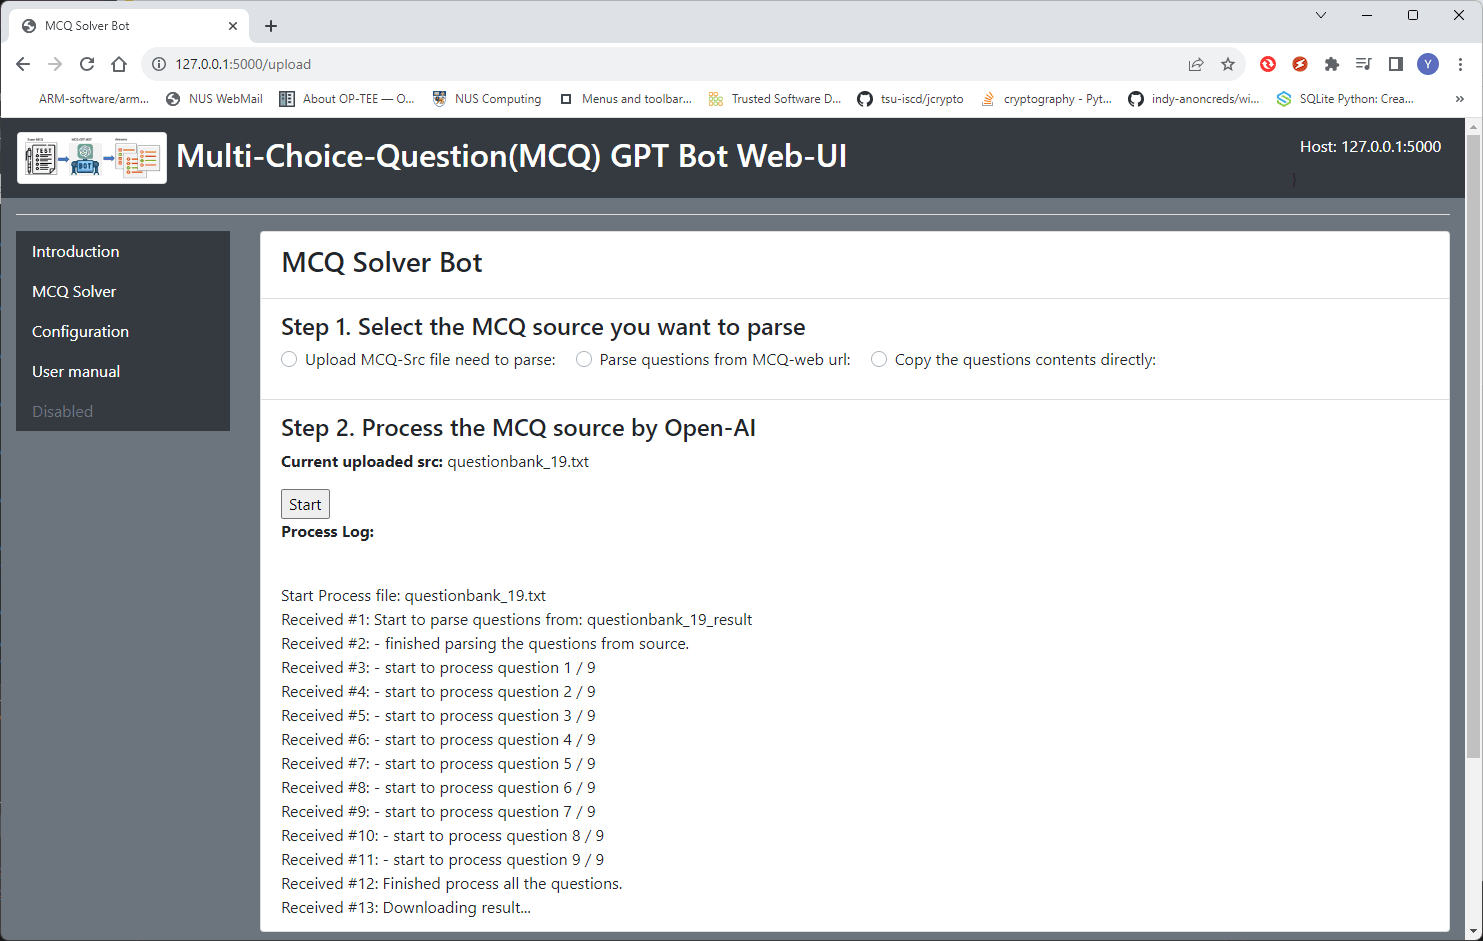
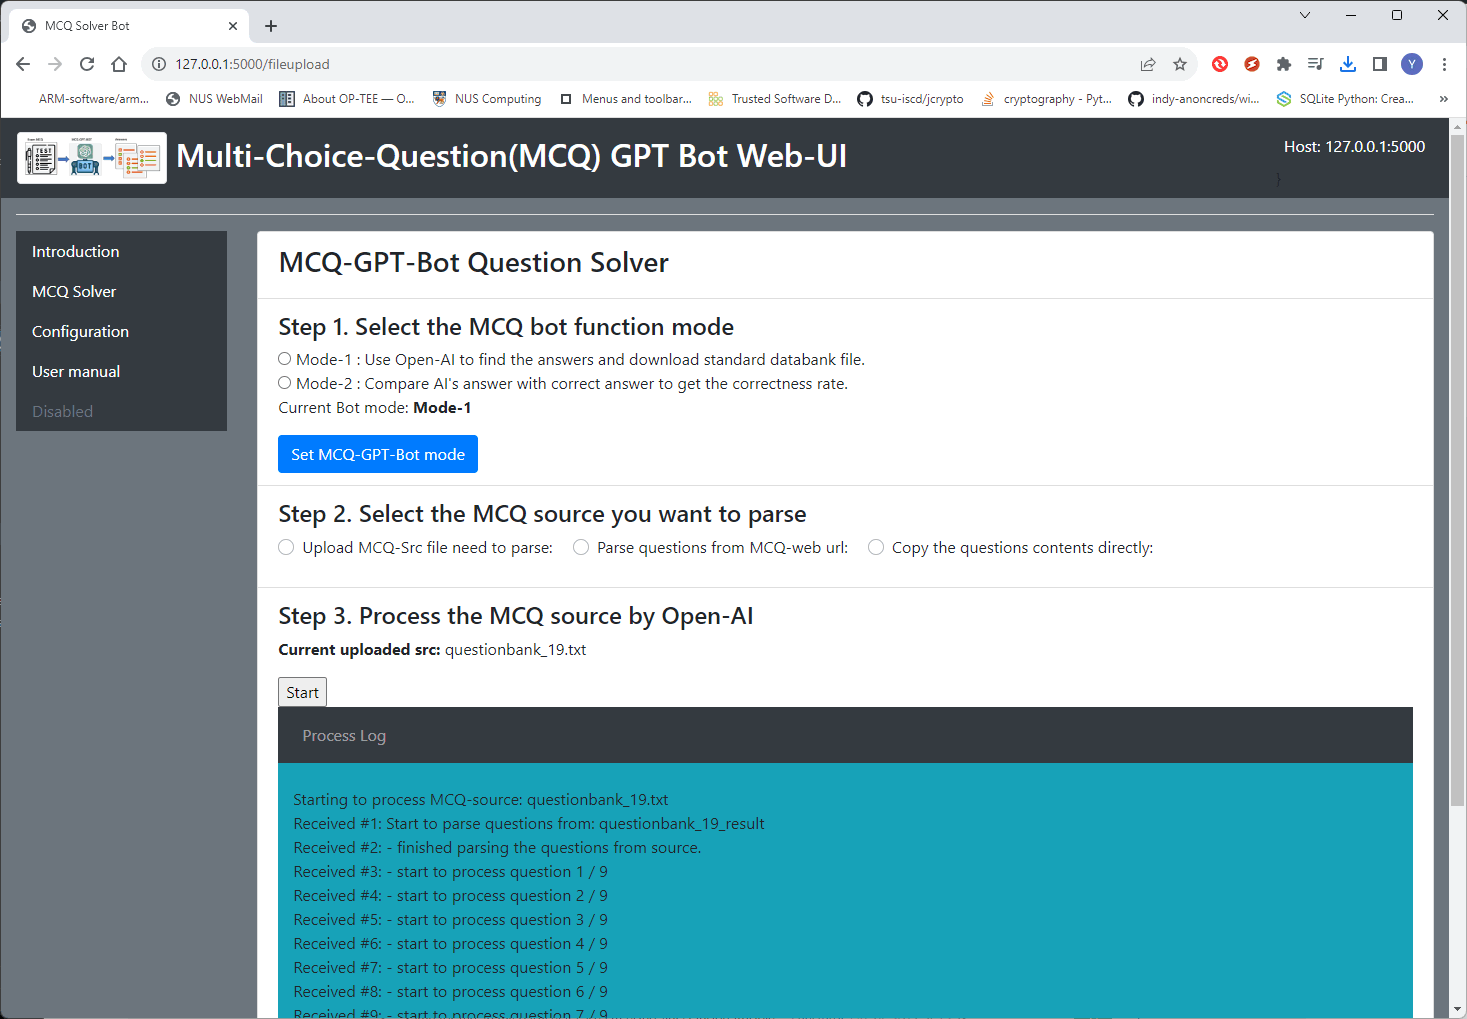
update the introduction page.

diff --git a/src/templates/Introduction.html b/src/templates/Introduction.html
@@ -20,18 +20,23 @@
 <ul class="list-group">
 
   <li class="list-group-item">
-    <h3> User Emulator Introduction</h3>
+    <h3> MCQ-GPT-Bot </h3>
+    <p> We want to create an assistant AI-Bot program which can batch process the multi 
+      choice cyber security exam questions (From different source format : md, url, html, 
+      txt, pdf, json) via OpenAI to get the answers so the researcher can use it to check 
+      the AI's answer correctness rate, AI's performance on solving question on different 
+      fields and do further data analysis. </p>
   </li>
 
   <li class="list-group-item">
     <h4> <span class="badge badge-secondary">Introduction </span> </h4>
-    <p> <b> The Cluster Users Emulator is a multiple users’ action emulation system running in a
-        network/compute cluster system which can satisfy the customers’ requirement about:</b>
+    <p> <b> The MCQ-GPT-Bot will is an automate AI-Bot assistant program which provides below functions: </b>
     </p>
 
-    <p><b> &#149; Network-traffic / node activities / group-users interactive action generation. </b></p>
-    <p><b> &#149; Robotic process / tasks automation. </b></p>
-    <p><b> &#149; System tasks’ process monitoring and control. </b></p>
+    <p><b> &#149; Parse multi-choice-questions from different format data source to build the standard question bank files for the further process such as training (data normalization) . </b></p>
+    <p><b> &#149; If the question sources don't content the answer, use OpenAI to get the answer (with or without the scenario prompt) .  </b></p>
+    <p><b> &#149; If the question sources also provide the answer, compare with AI's answer and calculate the AI's correctness rate.</b></p>
+    <p>The program will use the LLM LangChain frame work to implement the communication with the OpenAI-API.  We will also provide a web UI (under development) for the researcher to test their prompt or normal user who want to do quick test.</p>
   </li>
 
 
@@ -40,32 +45,36 @@
     <div class="row">
       <div class="col-sm-8">
         <h4> <span class="badge badge-secondary"> System Structure </span> </h4>
-        <p><b> The Cluster User Emulator system can be deployed on single compute node, real network
-            system, VMs based SDN (software defined network). The product contents three parts,
-            the “User actions repository”, the “User action emulator/scheduler” and the “scheduler
-            monitor hub”. (The 3 parts relationship is shown in the below system deployment
-            structure diagram)</b></p>
+        <p><b> The program is a single thread program to continuous loading all the question 
+          source files/urls set in the config file, convert to the standard question format, 
+          then based on the question type setup the LLM's scenario prompt and send to the 
+          questions solver to get the AI's solution. If you have multiple OpenAI-API, you can 
+          also config multi-thread with several parser and question solver to increase the 
+          processing efficiency.</b></p>
 
         <dl>
-          <dt>User Actions Repository</dt>
-          <dd> &#149; Provide the library APIs repository to simulate simple user’s normal
-            activities/events under hardware, network, OS and App level. (Such as starting
-            the online meeting, send/receive email, upload/download files, edit MS-Office doc,
-            On/Off Windows FW, watch online/offline video…)</dd>
+          <dt>QuestionParser</dt>
+          <dd> &#149; The MCQ question data parser (QuestionParser) will do the data mining and 
+            normalization step, it will load all the contents from MCQ source files or URL, 
+            use AI to find all the MCQs, then generate the standard question bank data.</dd>
 
-          <dt>User Action Emulator</dt>
-          <dd> &#149; A RPA type scheduler to invoke the lib from action repository to build more
-            complex “Human type” activities and run the tasks based on the users’ timeline
-            playbook configuration.</dd>
+          <dt>McqDataManager</dt>
+          <dd> &#149; The MCA data manager (McqDataManger) will do the data storage and result 
+            archiving step, it will store and questions, AI's answers and format the result. 
+            As we will batch process multiple question source, the data manager will log the 
+            process progress (such as whether a source file's result has been archived) so if 
+            there is program execution interruption happens, when the user run again, the don't 
+            need to process the source from the beginning. </dd>
 
-          <dt> Scheduler Monitor Hub </dt>
-          <dd> &#149; A no-centralized monitor website host which provides plug and play tasks
-            state view function for the customer to monitor and control all/parts of their
-            schedulers in a computers/servers cluster. </dd>
+          <dt> llmMcqSolver  </dt>
+          <dd> &#149; The large language MCQ solver (llmMcqSolver) will fetch the question 
+            from the data manager, preload the MCQ questions scenario prompt to OpenAI, then 
+            call OpenAI API to get the answer and calculate the AI's correctness rate based on 
+            the setting. </dd>
         </dl>
       </div>
       <div class="col-sm-4">
-        <img src="{{url_for('static', filename='img/RM_diagram_system.png')}}" align="left" class="img-thumbnail" />
+        <img src="{{url_for('static', filename='img/workflow.png')}}" align="left" class="img-thumbnail" />
 
       </div>
     </div>
@@ -75,8 +84,8 @@
   <li class="list-group-item">
     <h4> <span class="badge badge-secondary"> Current version : </span>
       <a type="button" class="btn btn-outline-secondary btn-sm"
-        href="https://github.com/LiuYuancheng/Windows_User_Simulator" target="_blank">
-        <span class="badge badge-light"> v_0.2</span>
+        href="https://github.com/LiuYuancheng/MCQ-GPT-Bot" target="_blank">
+        <span class="badge badge-light"> v_0.1.2</span>
         <span class="spinner-grow spinner-grow-sm"> </span> [Project Github link]
       </a>
     </h4>

diff --git a/src/mcqGptApp.py b/src/mcqGptApp.py
@@ -66,9 +66,10 @@ threadLock = threading.Lock()
 
 @app.route('/')
 def index():
+    posts = {'mode': gv.gParserMode}
     return render_template('index.html', 
                            async_mode=socketio.async_mode, 
-                           posts=None)
+                           posts=posts)
 
 @app.route('/mdselect', methods = ['POST', 'GET'])  
 def mdselect():
@@ -100,12 +101,12 @@ def fileupload():
             posts = {'filename': gv.gSrceName}
     return render_template('index.html', posts=posts)
 
-@app.route('/urlupload', methods= ['POST', 'GET'])
+@app.route('/urlupload', methods=['POST', 'GET'])
 def urlupload():
     posts = None
     if request.method == 'POST':
         urlStr = request.form['mcqurl']
-        gv.gSrceName = 'mcq_from_url' 
+        gv.gSrceName = 'mcq_from_url'
         gv.gSrcPath = urlStr
         gv.gSrcType = 'url'
         gv.gRstPath = None
